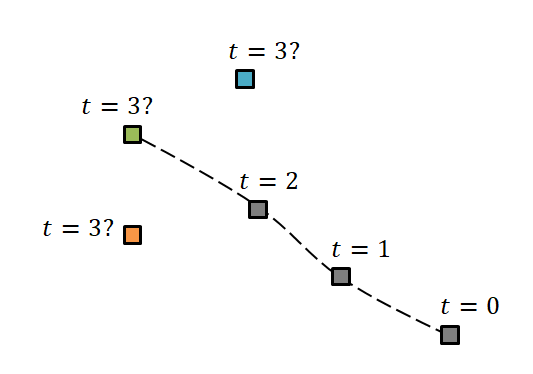
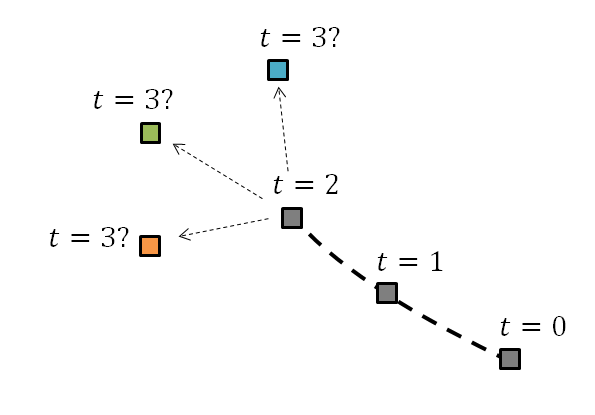
-

diff --git a/_posts/2021-04-07-Kalman_filter.md b/_posts/2021-04-07-Kalman_filter.md
@@ -28,10 +28,14 @@ tags: 통계학 신호처리
 
 칼만필터를 이용하면 물체를 추적 할 때 지금까지의 궤적에 기반해 다음번 물체의 위치를 추정하는데 사용할 수 있다.
 
+쉽게 설명하면, 아래 그림에서 볼 수 있듯이 지금까지 t = 0, 1, 2이라는 시간 순서에 따라 궤적을 얻었따고 해보자.
+
+그러면 t = 3 일 때는 물체가 어디에 있다고 보는 것이 가장 타당할까?
+
 <p align = "center">
   <img src = "https://raw.githubusercontent.com/angeloyeo/angeloyeo.github.io/master/pics/2021-04-07-Kalman_filter/pic1.png">
   <br>
-  그림 1. 지금까지(t=3)의 궤적에 따르면 t=4에서는 어떤 곳에 위치할 확률이 가장 높을까?
+  그림 1. 지금까지의 궤적에 따르면 t=3에서는 어떤 곳에 위치할 확률이 가장 높을까?
 </p>
 
 아래 영상에서는 칼만 필터를 이용한 공의 궤적에 대한 추정을 보여주고 있다. 빨간색 원의 크기가 클 수록 다음 번 스텝에 대한 예측이 불확실하다는 것을 의미한다.
@@ -51,7 +55,7 @@ tags: 통계학 신호처리
 이런 식으로 생각하면 현재 친구가 위치 해 있을 수 있는 곳들에 대해 확률을 이용해 서술할 수 있다. 가령, 아래와 같이 표로 정리해볼 수 도 있을 것이다.
 
 <p align = "center">
-  <img src = "https://raw.githubusercontent.com/angeloyeo/angeloyeo.github.io/master/pics/2021-04-07-Kalman_filter/table1.png">
+  <img width = "500" src = "https://raw.githubusercontent.com/angeloyeo/angeloyeo.github.io/master/pics/2021-04-07-Kalman_filter/table1.png">
   <br>
   표 1. 만나기로 한 친구가 위치해 있을 수 있는 장소들에 대한 확률 분포
 </p>
@@ -146,9 +150,9 @@ $$P(H|E) = \frac{P(E|H)P(H)}{P(E)}$$
 
 # Kalman filter의 작동 과정
 
-## Predict the next position
+## Predict
 
-## Additional Measure & Update
+## Update
 
 
 $$P(Hx)=\frac{P(z|H\hat{x})P(H\hat{x})}{P(z)}$$
